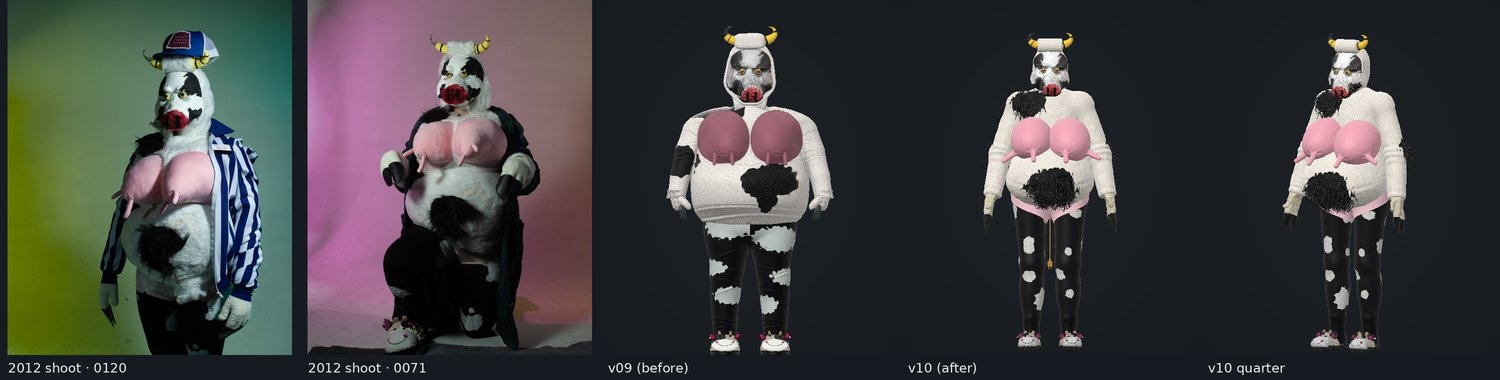
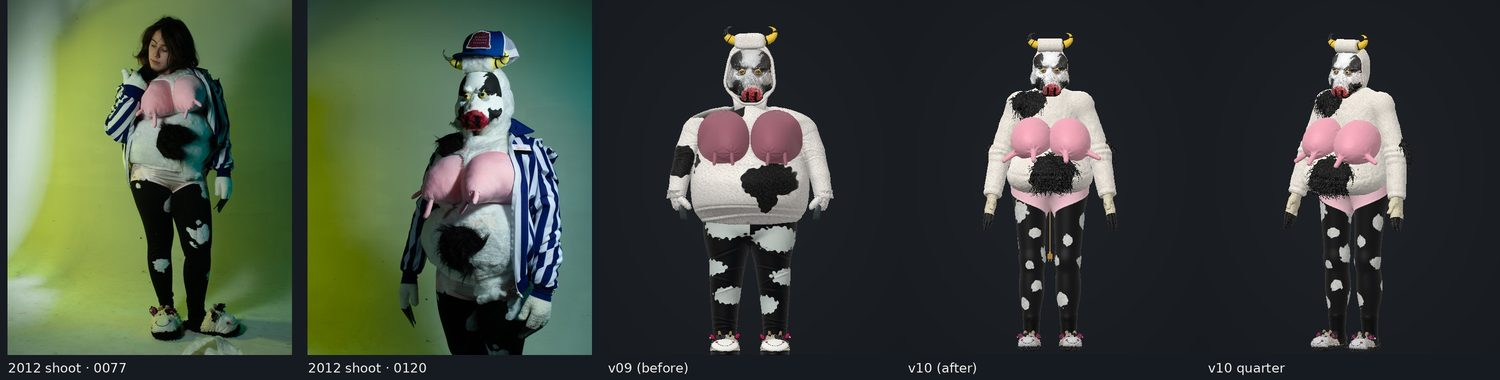
Cow v10 round 18: viewer page text, per-animation table and comparison images
The per-animation table shows the visible-only belly/legs readings; the
published claude.ai viewer serves this page with base64 parts of the
round-18 web copies.

Claude-Session: https://claude.ai/code/session_01TFV9tkUbqt83JR8WBFZhHK

diff --git a/misanthropic-cow/viewer/index.html b/misanthropic-cow/viewer/index.html
@@ -76,14 +76,14 @@ figcaption { font-size: 12.5px; color: var(--ink-soft); }
 <div class="wrap">
   <header>
     <h1>The Misanthropic Cow</h1>
-    <span class="tag">v10 &middot; 2012 shoot proportions &middot; 11 animations + alt set</span>
+    <span class="tag">v10 &middot; round 18 &middot; original-shoot proportions &middot; 11 animations + alt set</span>
   </header>
 
   <div class="main">
     <section class="controls" aria-label="Viewer">
       <div class="stage" id="stage">
         <div class="phase-now" id="phaseNow">Chicken dance</div>
-        <div class="status" id="status">Loading the model (16.7 MB)&hellip;</div>
+        <div class="status" id="status">Loading the model (16.6 MB)&hellip;</div>
       </div>
 
       <div class="row" id="clips">
@@ -156,8 +156,9 @@ figcaption { font-size: 12.5px; color: var(--ink-soft); }
       <section>
         <h2>What changed</h2>
         <ul>
-          <li><strong>Gloves:</strong> now your own glove model at its real size: the cream terry mitten with its thumb, and the two black painted toe caps with their brush strokes and beaded rim. Each toe moves on its own, pivoting at the finger web: they curl together as before, and now part in a V like a Vulcan salute (see the arm fling in <em>Exasperated</em>). The thumb still bends on its own. The top of the palm bends with the toes, so no gap opens at the knuckles. The ambient occlusion baked into the glove's colour map is divided back out, so the viewer does all the shading.</li>
-          <li>Last round &middot; <strong>Sitting:</strong> <em>Crouch and sit</em> is replaced by <em>Sit cross-legged</em>. She steps one foot across the other, sinks down with her knees falling open, reaches back and lands heavily cross-legged, leans back with the belly resting on her legs, slumps with her forearms on her knees and sighs, then pushes up and steps out of it. In the old version the thighs went 5&ndash;6&nbsp;cm up through the belly and hem, the seat sank into the floor and the arms pressed into the cups. New helper bones let the front of the hem ride up over a lifted thigh, as the fabric would. Now the belly stays within about 3&nbsp;mm of the legs and the arms within 2&nbsp;mm of the cups, and she sits on the floor, not in it. The other animations are unchanged.</li>
+          <li><strong>Proportions from the original shoot:</strong> measured on the two full-length photos of the original session (0077 and &ldquo;5 of 15&rdquo;). The legs are 4&nbsp;cm longer, so the crotch sits at 46.7&nbsp;% of her height (45&ndash;48&nbsp;% in the photos, 43.7&nbsp;% before), and the bottom of the belly is 7.6&nbsp;cm higher at the front (52.5&nbsp;%; 52&ndash;53&nbsp;% in the photos, 47.9&nbsp;% before), so about 9&nbsp;cm of the briefs shows under it. Only the lower half of the belly changed: the cups, teats, arms and head are exactly as they were, she is still 1.60&nbsp;m tall, and the back keeps the shape you approved. The black belly patch now sits under the teats, as in the photos. The thighs meet the belly less in Walk, Run and Sneak; sitting down, the side of the belly brushes the thighs 0.5&nbsp;mm more than before.</li>
+          <li>Last round &middot; <strong>Gloves:</strong> now your own glove model at its real size: the cream terry mitten with its thumb, and the two black painted toe caps with their brush strokes and beaded rim. Each toe moves on its own, pivoting at the finger web: they curl together as before, and now part in a V like a Vulcan salute (see the arm fling in <em>Exasperated</em>). The thumb still bends on its own. The top of the palm bends with the toes, so no gap opens at the knuckles. The ambient occlusion baked into the glove's colour map is divided back out, so the viewer does all the shading.</li>
+          <li>Earlier &middot; <strong>Sitting:</strong> <em>Crouch and sit</em> is replaced by <em>Sit cross-legged</em>. She steps one foot across the other, sinks down with her knees falling open, reaches back and lands heavily cross-legged, leans back with the belly resting on her legs, slumps with her forearms on her knees and sighs, then pushes up and steps out of it. In the old version the thighs went 5&ndash;6&nbsp;cm up through the belly and hem, the seat sank into the floor and the arms pressed into the cups. New helper bones let the front of the hem ride up over a lifted thigh, as the fabric would. Now the belly stays within about 3&nbsp;mm of the legs and the arms within 2&nbsp;mm of the cups, and she sits on the floor, not in it. The other animations are unchanged.</li>
           <li>Earlier &middot; <strong>Slippers:</strong> now your own model of the real slippers: open-back cow mules with the white muzzle, smile and magenta nostrils, horns, ears with pearls, cream chenille head and black fringe. Because the heel is open, the tights now end in a black-socked foot standing on the footbed.</li>
           <li>Earlier &middot; <strong>Underwear joins in the middle:</strong> the back panel now runs down the centre into the crotch in one piece, so no strip of tights shows between the cheeks.</li>
           <li><strong>Gloves rebuilt:</strong> each glove is rebuilt as one smooth solid from your Tripo glove, with the same shape, thumb, hooves and texture but without the spiky edges, and with a clean round cuff that fits inside the sleeve instead of the ragged wrist.</li>
@@ -177,38 +178,38 @@ figcaption { font-size: 12.5px; color: var(--ink-soft); }
         <h2>Measured per animation</h2>
         <div style="overflow-x:auto">
         <table class="metrics">
-          <thead><tr><th>Animation</th><th>Arms into body</th><th>Teats into belly</th><th>Belly into legs</th><th>Lowest sole</th></tr></thead>
+          <thead><tr><th>Animation</th><th>Arms into body</th><th>Teats into belly</th><th>Belly into legs</th><th>Legs into belly</th><th>Lowest sole</th></tr></thead>
           <tbody>
-            <tr><td>Idle</td><td>0 mm</td><td>0 mm</td><td>0 mm</td><td>3.0 mm</td></tr>
-            <tr><td>Walk</td><td>0 mm</td><td>0 mm</td><td>2.1 mm</td><td>3.0 mm</td></tr>
-            <tr><td>Run</td><td>0 mm</td><td>0.1 mm</td><td>19.9 mm</td><td>3.0 mm</td></tr>
-            <tr><td>Sneak</td><td>0 mm</td><td>0 mm</td><td>32.5 mm</td><td>3.0 mm</td></tr>
-            <tr><td>Jumping Jacks</td><td>0 mm</td><td>0 mm</td><td>0.1 mm</td><td>3.0 mm</td></tr>
-            <tr><td>Look Around</td><td>0 mm</td><td>0 mm</td><td>0 mm</td><td>3.0 mm</td></tr>
-            <tr><td>Chicken Dance</td><td>0 mm</td><td>2.7 mm</td><td>0 mm</td><td>3.0 mm</td></tr>
-            <tr><td>Depressed Walk</td><td>0 mm</td><td>0 mm</td><td>3.4 mm</td><td>3.0 mm</td></tr>
-            <tr><td>Sit Cross-Legged</td><td>0 mm</td><td>2.1 mm</td><td>2.6 mm</td><td>3.0 mm</td></tr>
-            <tr><td>Crying</td><td>0 mm</td><td>0 mm</td><td>0 mm</td><td>3.0 mm</td></tr>
-            <tr><td>Exasperated</td><td>0 mm</td><td>0 mm</td><td>0 mm</td><td>3.0 mm</td></tr>
-            <tr><td>Idle <span class="note">alt</span></td><td>0 mm</td><td>0 mm</td><td>0 mm</td><td>3.0 mm</td></tr>
-            <tr><td>Walk <span class="note">alt</span></td><td>0 mm</td><td>0 mm</td><td>1.1 mm</td><td>3.0 mm</td></tr>
-            <tr><td>Run <span class="note">alt</span></td><td>0 mm</td><td>3.7 mm</td><td>18.6 mm</td><td>3.0 mm</td></tr>
-            <tr><td>Sneak <span class="note">alt</span></td><td>0 mm</td><td>2 mm</td><td>28.3 mm</td><td>3.0 mm</td></tr>
-            <tr><td>Jumping Jacks <span class="note">alt</span></td><td>0 mm</td><td>0 mm</td><td>0.7 mm</td><td>3.0 mm</td></tr>
-            <tr><td>Look Around <span class="note">alt</span></td><td>0 mm</td><td>0 mm</td><td>0 mm</td><td>3.0 mm</td></tr>
-            <tr><td>Chicken Dance <span class="note">alt</span></td><td>0 mm</td><td>5.7 mm</td><td>0 mm</td><td>3.0 mm</td></tr>
+            <tr><td>Idle</td><td>0 mm</td><td>0 mm</td><td>0 mm</td><td>0 mm</td><td>3.0 mm</td></tr>
+            <tr><td>Walk</td><td>0 mm</td><td>0 mm</td><td>0 mm</td><td>35.5 mm</td><td>3.0 mm</td></tr>
+            <tr><td>Run</td><td>0 mm</td><td>0 mm</td><td>10.9 mm</td><td>65.2 mm</td><td>3.0 mm</td></tr>
+            <tr><td>Sneak</td><td>0 mm</td><td>0 mm</td><td>21.2 mm</td><td>65.3 mm</td><td>3.0 mm</td></tr>
+            <tr><td>Jumping Jacks</td><td>0 mm</td><td>0 mm</td><td>0 mm</td><td>26.5 mm</td><td>3.0 mm</td></tr>
+            <tr><td>Look Around</td><td>0 mm</td><td>0 mm</td><td>0 mm</td><td>0 mm</td><td>3.0 mm</td></tr>
+            <tr><td>Chicken Dance</td><td>0 mm</td><td>2.5 mm</td><td>0 mm</td><td>15.4 mm</td><td>3.0 mm</td></tr>
+            <tr><td>Depressed Walk</td><td>0 mm</td><td>0 mm</td><td>0 mm</td><td>29.5 mm</td><td>3.0 mm</td></tr>
+            <tr><td>Sit Cross-Legged</td><td>0 mm</td><td>2.1 mm</td><td>3.1 mm</td><td>15.6 mm</td><td>3.0 mm</td></tr>
+            <tr><td>Crying</td><td>0 mm</td><td>0 mm</td><td>0 mm</td><td>11.5 mm</td><td>3.0 mm</td></tr>
+            <tr><td>Exasperated</td><td>0 mm</td><td>0 mm</td><td>0 mm</td><td>0 mm</td><td>3.0 mm</td></tr>
+            <tr><td>Idle <span class="note">alt</span></td><td>0 mm</td><td>0 mm</td><td>0 mm</td><td>3.6 mm</td><td>3.0 mm</td></tr>
+            <tr><td>Walk <span class="note">alt</span></td><td>0 mm</td><td>0 mm</td><td>0 mm</td><td>29.4 mm</td><td>3.0 mm</td></tr>
+            <tr><td>Run <span class="note">alt</span></td><td>0 mm</td><td>3.6 mm</td><td>6.7 mm</td><td>55.1 mm</td><td>3.0 mm</td></tr>
+            <tr><td>Sneak <span class="note">alt</span></td><td>0 mm</td><td>2.0 mm</td><td>15.5 mm</td><td>56.4 mm</td><td>3.0 mm</td></tr>
+            <tr><td>Jumping Jacks <span class="note">alt</span></td><td>0 mm</td><td>0 mm</td><td>0 mm</td><td>23.6 mm</td><td>3.0 mm</td></tr>
+            <tr><td>Look Around <span class="note">alt</span></td><td>0 mm</td><td>0 mm</td><td>0 mm</td><td>3.5 mm</td><td>3.0 mm</td></tr>
+            <tr><td>Chicken Dance <span class="note">alt</span></td><td>0 mm</td><td>5.6 mm</td><td>0 mm</td><td>14.9 mm</td><td>3.0 mm</td></tr>
           </tbody>
         </table>
         </div>
-        <p class="note">Depths are 99.5th percentiles over every frame. In every animation the gloves stay out of the body and tucked into the sleeves. The figures of about 7 mm are the relaxed arms resting against the plush sides. Crouch and sit is higher because at the bottom of the squat the upper arms press into the sides of the soft udder cups. In Crying and Exasperated the hooves press about 5 mm into the mask at the eyes and brow.</p>
+        <p class="note">Depths are 99.5th percentiles over every frame, counting only surface you can see (the tops of the tights and briefs tucked inside the suit are left out). In every animation the gloves stay out of the body and tucked into the sleeves. <em>Legs into belly</em> is the tops of the thighs meeting the belly at the highest knee lifts; with the higher belly of round 18 it is 10&ndash;45&nbsp;% lower than before wherever they meet.</p>
       </section>
       <figure>
         <img src="head.jpg" alt="The real mask and hood photographed from the front, quarter and side, each beside the matching v10 render">
         <figcaption>Mask and hood photos &middot; matching v10 views</figcaption>
       </figure>
       <figure>
-        <img src="compare.jpg" alt="Two 2012 shoot photos beside the v09 render and the v10 front and quarter renders">
-        <figcaption>2012 shoot (0120, 0071) &middot; v09 before &middot; v10 after</figcaption>
+        <img src="compare.jpg" alt="Two original shoot photos beside the v09 render and the round-18 v10 front and quarter renders">
+        <figcaption>Original shoot (0077, 0120) &middot; v09 before &middot; v10 round 18</figcaption>
       </figure>
     </aside>
   </div>
